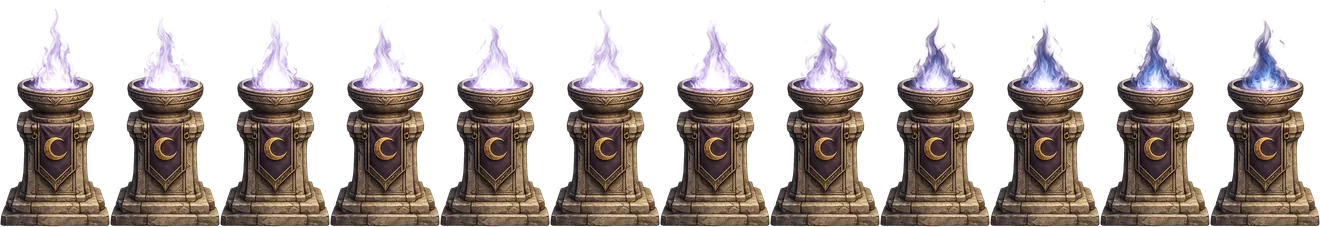
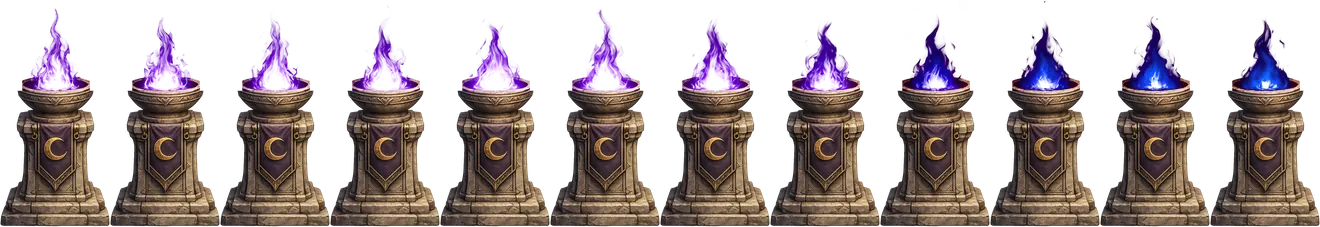
v2.3.727: real sun-flame animation; both flames legible; title clear of frame
The owner provided the sun brazier's own animation clip — its real
gold flame replaces the v2.3.726 luminance-ramped recolor of the
purple one. The purple strip is rebuilt brighter/denser (it was built
before the alpha boost and barely read against the night sky). Header
padding bumped so the crest clears the frame's crown ornament.
Accordion picker re-verified end to end.

https://claude.ai/code/session_0151DZMnMFd5zwh48Ctd1ErU

Changed region(s): [[0.0, 0.0925, 0.9939, 0.4317]]

diff --git a/src/styles/game.css b/src/styles/game.css
@@ -216,7 +216,7 @@ input{font-family:inherit}
    gone — the UI floats directly on the painted backdrop, wrapped by the
    ornate gold frame img (.bt-cc-outer-frame, stretched; painted style
    tolerates the mild distortion). */
-.bt-name-box.bt-cc-box{position:relative;display:flex;flex-direction:column;width:100%;height:auto;max-width:560px;max-height:min(820px,100%);margin:auto;padding:56px 26px 38px;text-align:left;background:none;border:none;box-shadow:none}
+.bt-name-box.bt-cc-box{position:relative;display:flex;flex-direction:column;width:100%;height:auto;max-width:560px;max-height:min(820px,100%);margin:auto;padding:64px 26px 40px;text-align:left;background:none;border:none;box-shadow:none}
 /* ^ generous top/bottom padding clears the frame art's tall crown and base
    ornaments; side padding clears its rails. */
 /* v2.3.726: frame pushed outward so its rails/ornaments stop crowding the UI */
@@ -236,7 +236,7 @@ input{font-family:inherit}
    window architecture, not free-standing) */
 .bt-cc-brazier--left{left:2.5%;aspect-ratio:110/227;background-image:url('/ui/welcome/brazier-dark-strip.webp')}
 /* negative delay desyncs the two flames so they don't flicker in lockstep */
-.bt-cc-brazier--right{right:2.5%;aspect-ratio:110/224;background-image:url('/ui/welcome/brazier-light-strip.webp');animation-delay:-.45s}
+.bt-cc-brazier--right{right:2.5%;aspect-ratio:110/231;background-image:url('/ui/welcome/brazier-light-strip.webp');animation-delay:-.45s}
 /* Chunky beveled PLAY — presses down on tap (border-bottom is the bevel). */
 /* v2.3.725: PLAY is the owner's painted button art (label baked in). */
 .bt-cc-play{background:url('/ui/welcome/play-btn.webp') center/100% 100% no-repeat;border:none}
